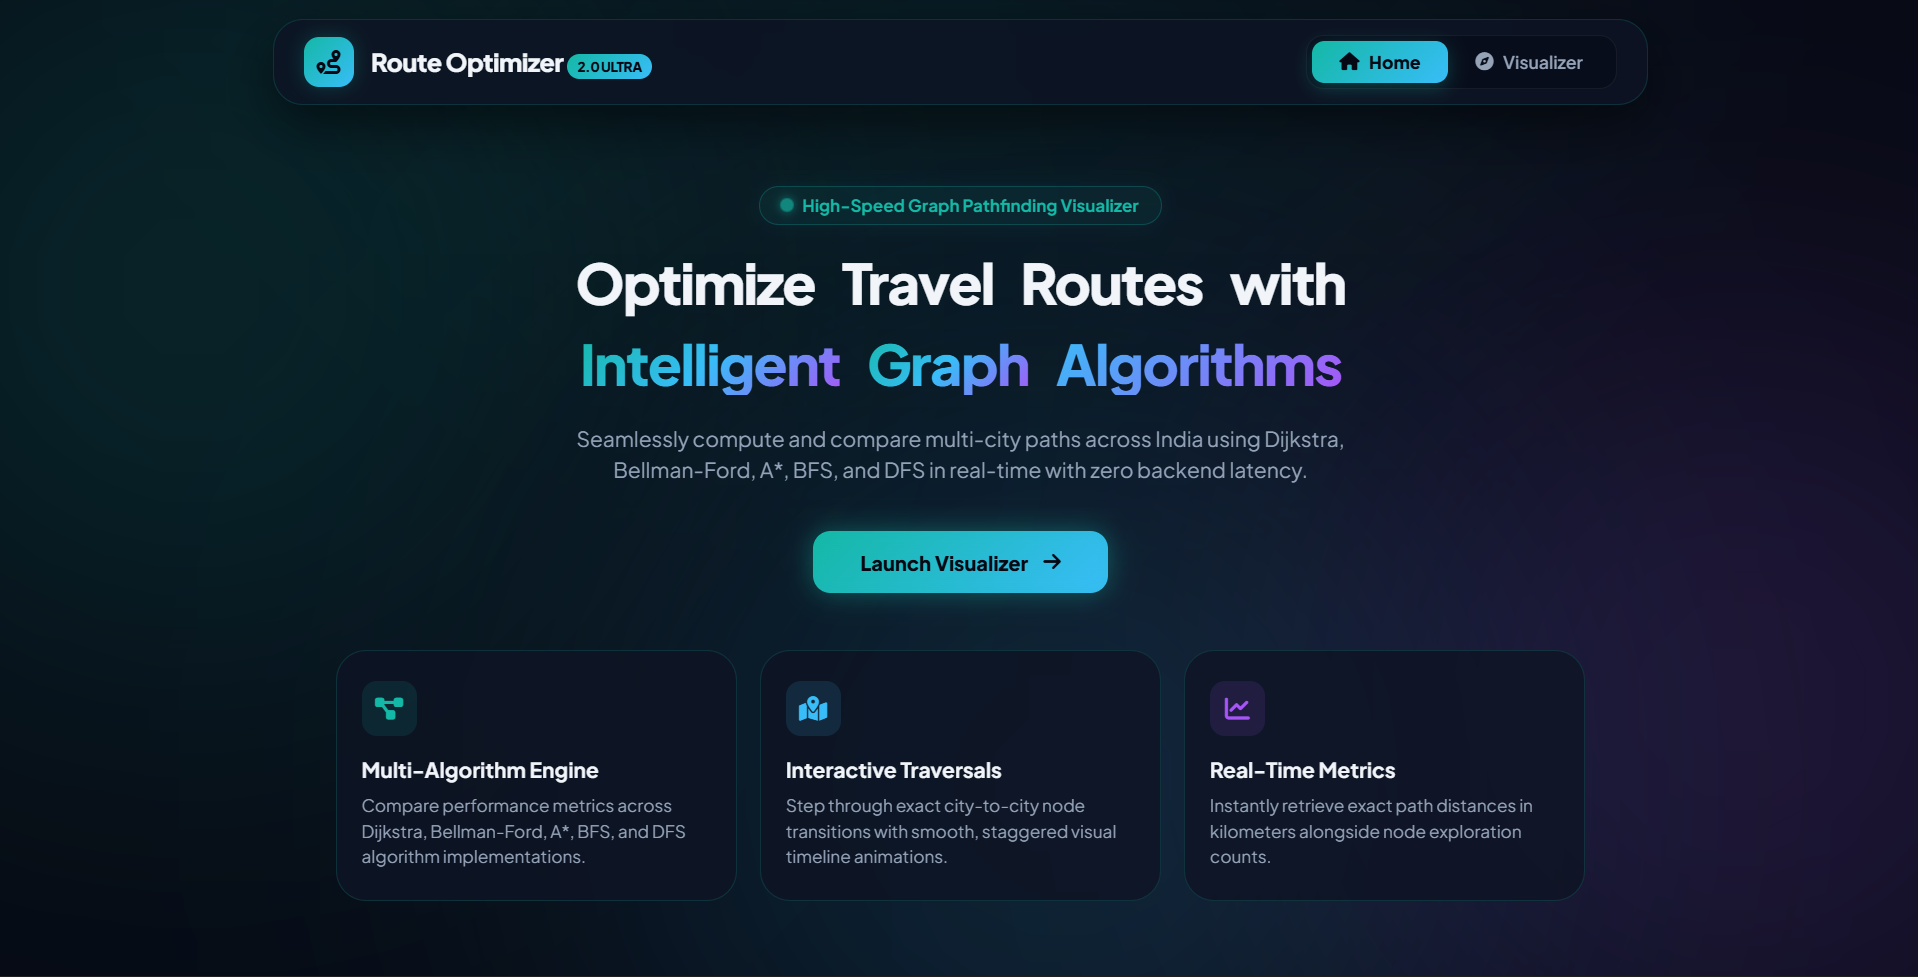
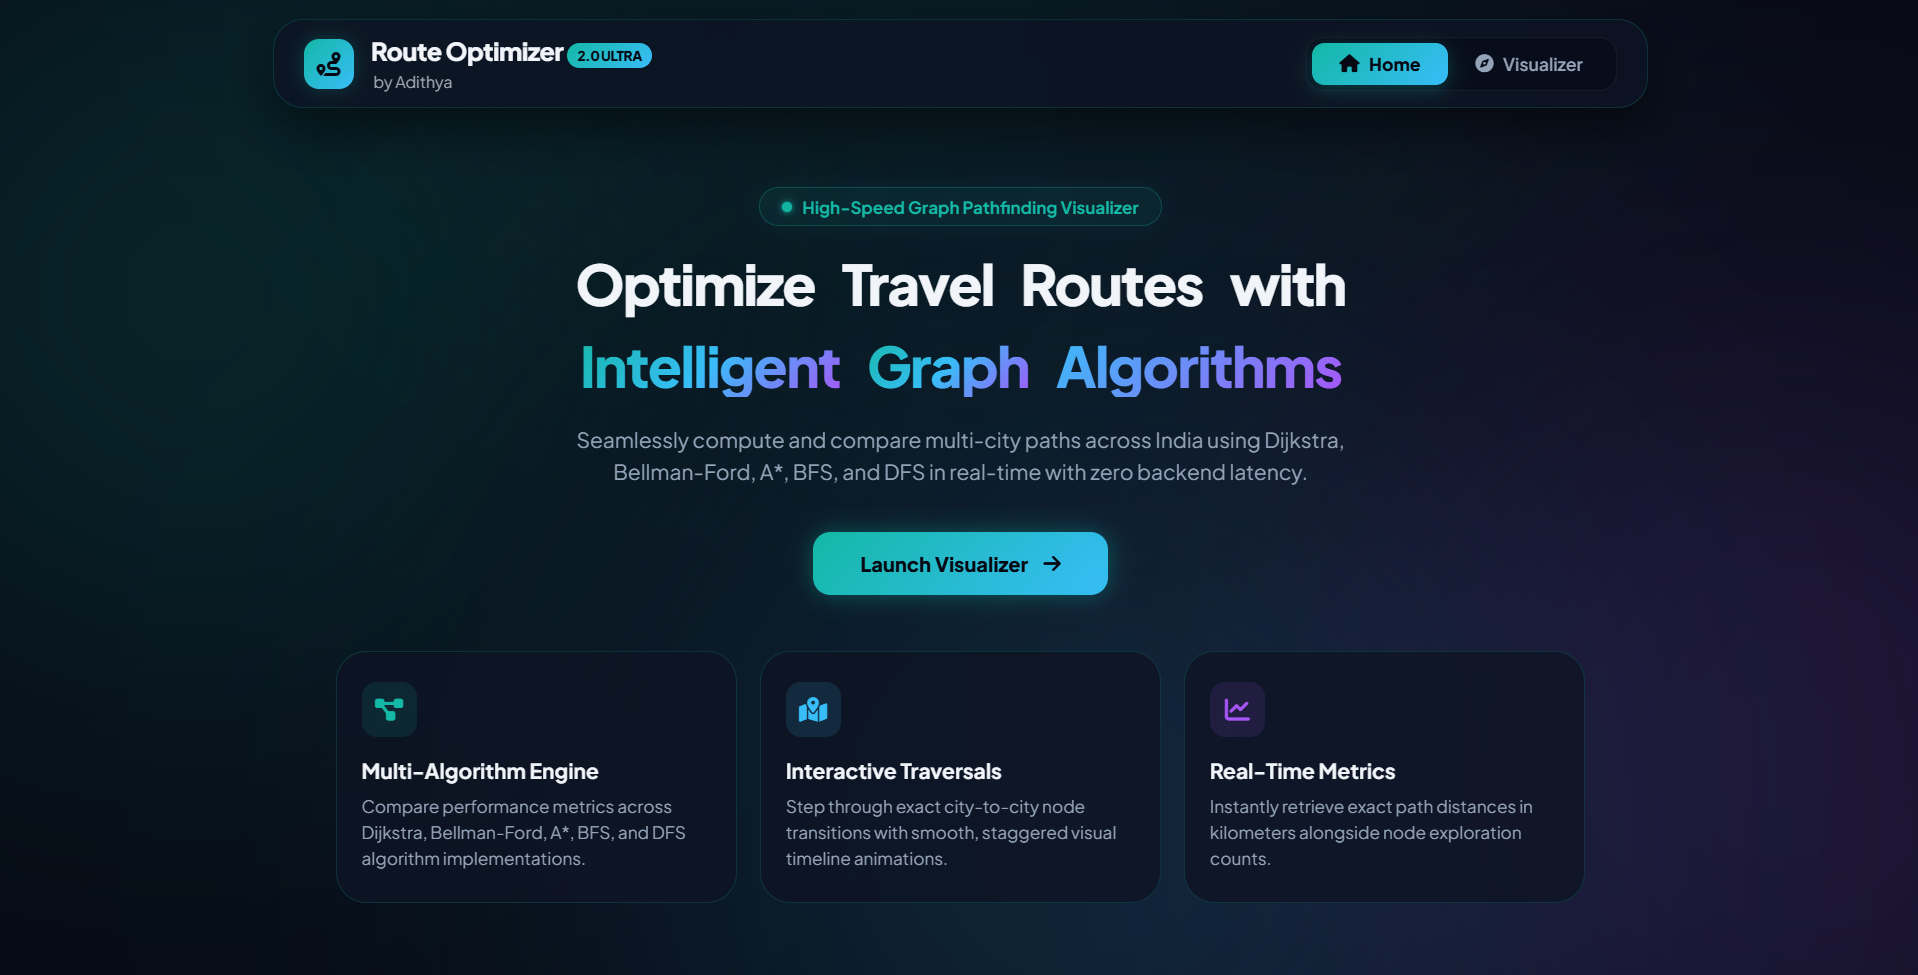
Fix screenshot image paths in README

diff --git a/graph-route-optimization/README.md b/graph-route-optimization/README.md
@@ -200,16 +200,16 @@ Select an option, follow the prompts, and the result (a computed path, a list of
 ## 📸 Application Interface & Visualizer
 
 ### Landing Page
-![Landing Page](images/LandingPage.jpg)
+![Landing Page](images/LandingPage.png)
 
 ### Route Parameters & Dashboard
-![Route Dashboard](images/Route.jpg)
+![Route Dashboard](images/Route.png)
 
 ### Multi-Algorithm Selection Engine
-![Algorithm Selection](images/AlgorithmSelection.jpg)
+![Algorithm Selection](images/AlgorithmSelection.png)
 
 ### Live Route Optimization & Traversal Results
-![Working Results](images/Working.jpg)
+![Working Results](images/Working.png)
 ```
 
 ---
@@ -236,7 +236,7 @@ This project is licensed under the **MIT License** — see the [LICENSE](./LICEN
 ## Author
 
 **[ADITHYA ACHARYA]**
-[GitHub](https://github.com/ADITHYA-2704) · [LinkedIn](www.linkedin.com/in/adithya-acharya-279612382) · [Email](adithyaacharya004@gmail.com)
+[GitHub]([https://github.com/ADITHYA-2704](https://github.com/ADITHYA-2704)) · [LinkedIn](www.linkedin.com/in/adithya-acharya-279612382) · [Email](adithyaacharya004@gmail.com)
 
 ---
 
